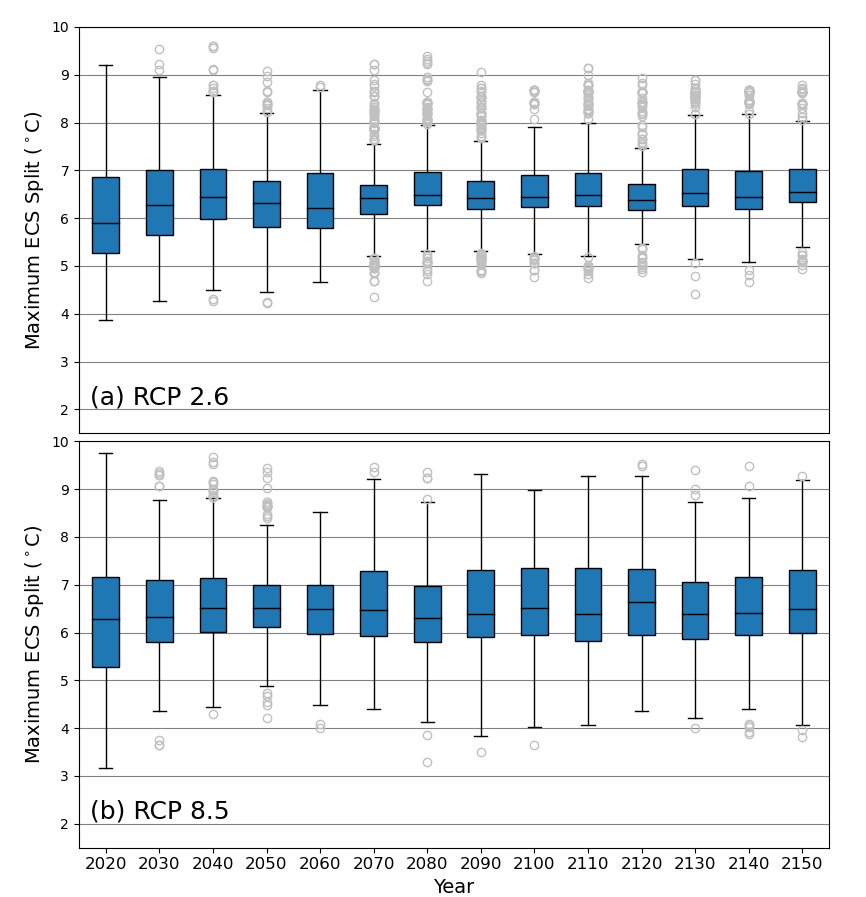
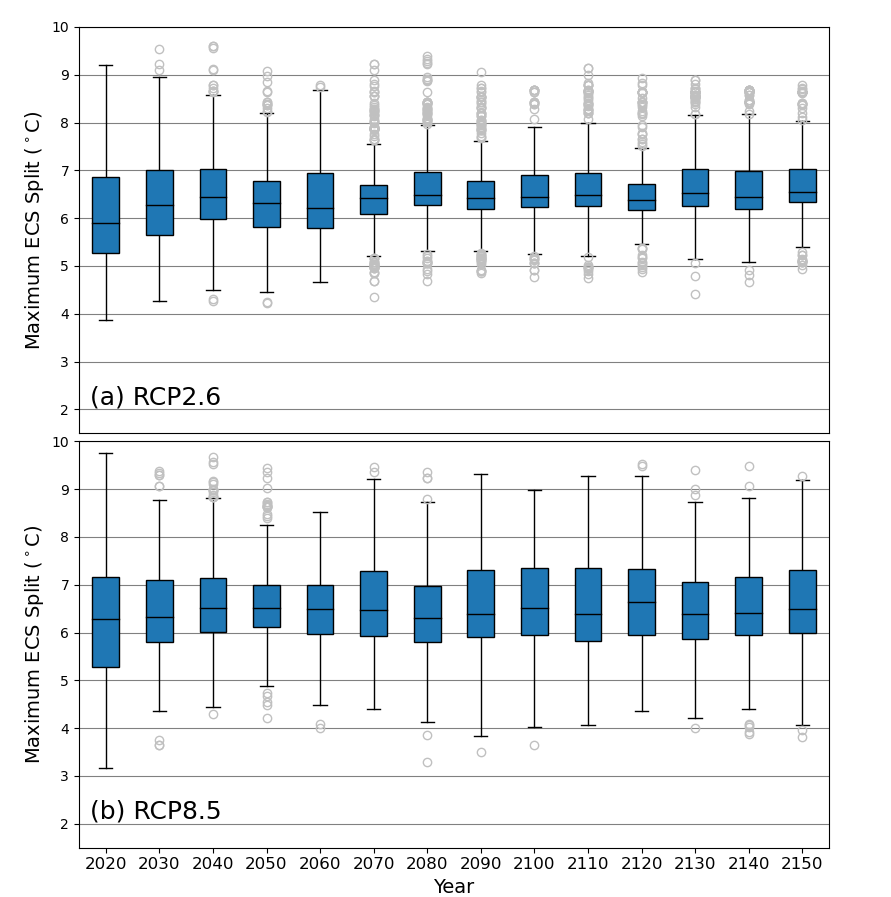
removed space in RCPs of plots

Changed region(s): [[0.0312, 0.0312, 0.9665, 0.9989], [0.1559, 0.8116, 0.1871, 0.8428]]

diff --git a/python_code/sklearn_slr_classification.py b/python_code/sklearn_slr_classification.py
@@ -574,6 +574,8 @@ def slr_stacked_importances_plot(param_sample_df, rcp26_forest_list, rcp85_fores
                         importances_info[f].append(0)
         importances_info_list.append(importances_info)
 
+    print(importances_info_list)
+
     # set color for each feature
     features_on_plot_ordered = []
     model_components_to_plot = {}
@@ -820,8 +822,8 @@ def all_Stemp_max_split_histograms(year_list):
         i += 1
     main_title = "SLR Histograms of Maximum ECS Split Values ($^\circ$C) of each Tree"
     fig.suptitle(main_title)
-    fig.text(.39, .94, "RCP 2.6", fontsize='large', ha='center')
-    fig.text(.61, .94, "RCP 8.5", fontsize='large', ha='center')
+    fig.text(.39, .94, "RCP2.6", fontsize='large', ha='center')
+    fig.text(.61, .94, "RCP8.5", fontsize='large', ha='center')
     fig.text(0.39, 0.015, 'Maximum ECS Split ($^\circ$C)', ha='center')
     fig.text(0.61, 0.015, 'Maximum ECS Split ($^\circ$C)', ha='center')
     fig.text(0.28, 0.5, 'Density', va='center', rotation='vertical')
@@ -918,14 +920,14 @@ def all_Stemp_max_split_boxplots(year_list, show_outliers=True,
         rcp26_max_list = rcp26_df.max(axis=1).dropna().tolist()
         rcp26_split_lists.append(rcp26_max_list)
         if print_medians:
-            print("RCP 2.6", yr, "\tmedian = %5.4f" % np.median(rcp26_max_list))
+            print("RCP2.6", yr, "\tmedian = %5.4f" % np.median(rcp26_max_list))
 
         rcp_85_file_path = ECS_splits_folder_path + "RCP85_" + str(yr) + "_splits.csv"
         rcp85_df = pd.read_csv(rcp_85_file_path)
         rcp85_max_list = rcp85_df.max(axis=1).dropna().tolist()
         rcp85_split_lists.append(rcp85_max_list)
         if print_medians:
-            print("RCP 8.5", yr, "\tmedian = %5.4f" % np.median(rcp85_max_list))
+            print("RCP8.5", yr, "\tmedian = %5.4f" % np.median(rcp85_max_list))
     all_split_lists = [rcp26_split_lists, rcp85_split_lists]
 
     fig, axs = plt.subplots(2, 1)
@@ -941,8 +943,8 @@ def all_Stemp_max_split_boxplots(year_list, show_outliers=True,
         axs[i].grid(b=True, axis='y', color='gray')
         axs[i].set_ylim(top=10)
         axs[i].set_ylim(bottom=1.5)
-    axs[0].text(.7, 2.1, "(a) RCP 2.6", fontsize=18)
-    axs[1].text(.7, 2.1, "(b) RCP 8.5", fontsize=18)
+    axs[0].text(.7, 2.1, "(a) RCP2.6", fontsize=18)
+    axs[1].text(.7, 2.1, "(b) RCP8.5", fontsize=18)
     plt.subplots_adjust(left=.25, right=.75, hspace=.02, top=.97, bottom=.055)
     plt.show()
 
@@ -1108,9 +1110,9 @@ if __name__ == '__main__':
 
     rcp26_forest_list = load_forests(yrs_rcp26, "rcp26")
     rcp85_forest_list = load_forests(yrs_rcp85, "rcp85")
-    slr_stacked_importances_plot(df, rcp26_forest_list, rcp85_forest_list, yrs_rcp26, importance_threshold=.04)
-    #all_Stemp_max_split_boxplots(list_10_yrs)
-    # all_Stemp_max_split_histograms([2025, 2050, 2075, 2100, 2125, 2150])
+    #slr_stacked_importances_plot(df, rcp26_forest_list, rcp85_forest_list, yrs_rcp26, importance_threshold=.04)
+    all_Stemp_max_split_boxplots(list_10_yrs)
+    all_Stemp_max_split_histograms([2025, 2050, 2075, 2100, 2125, 2150])
 
     # 80th percentile boxplot:
     #all_Stemp_max_split_boxplots(list_10_yrs,
